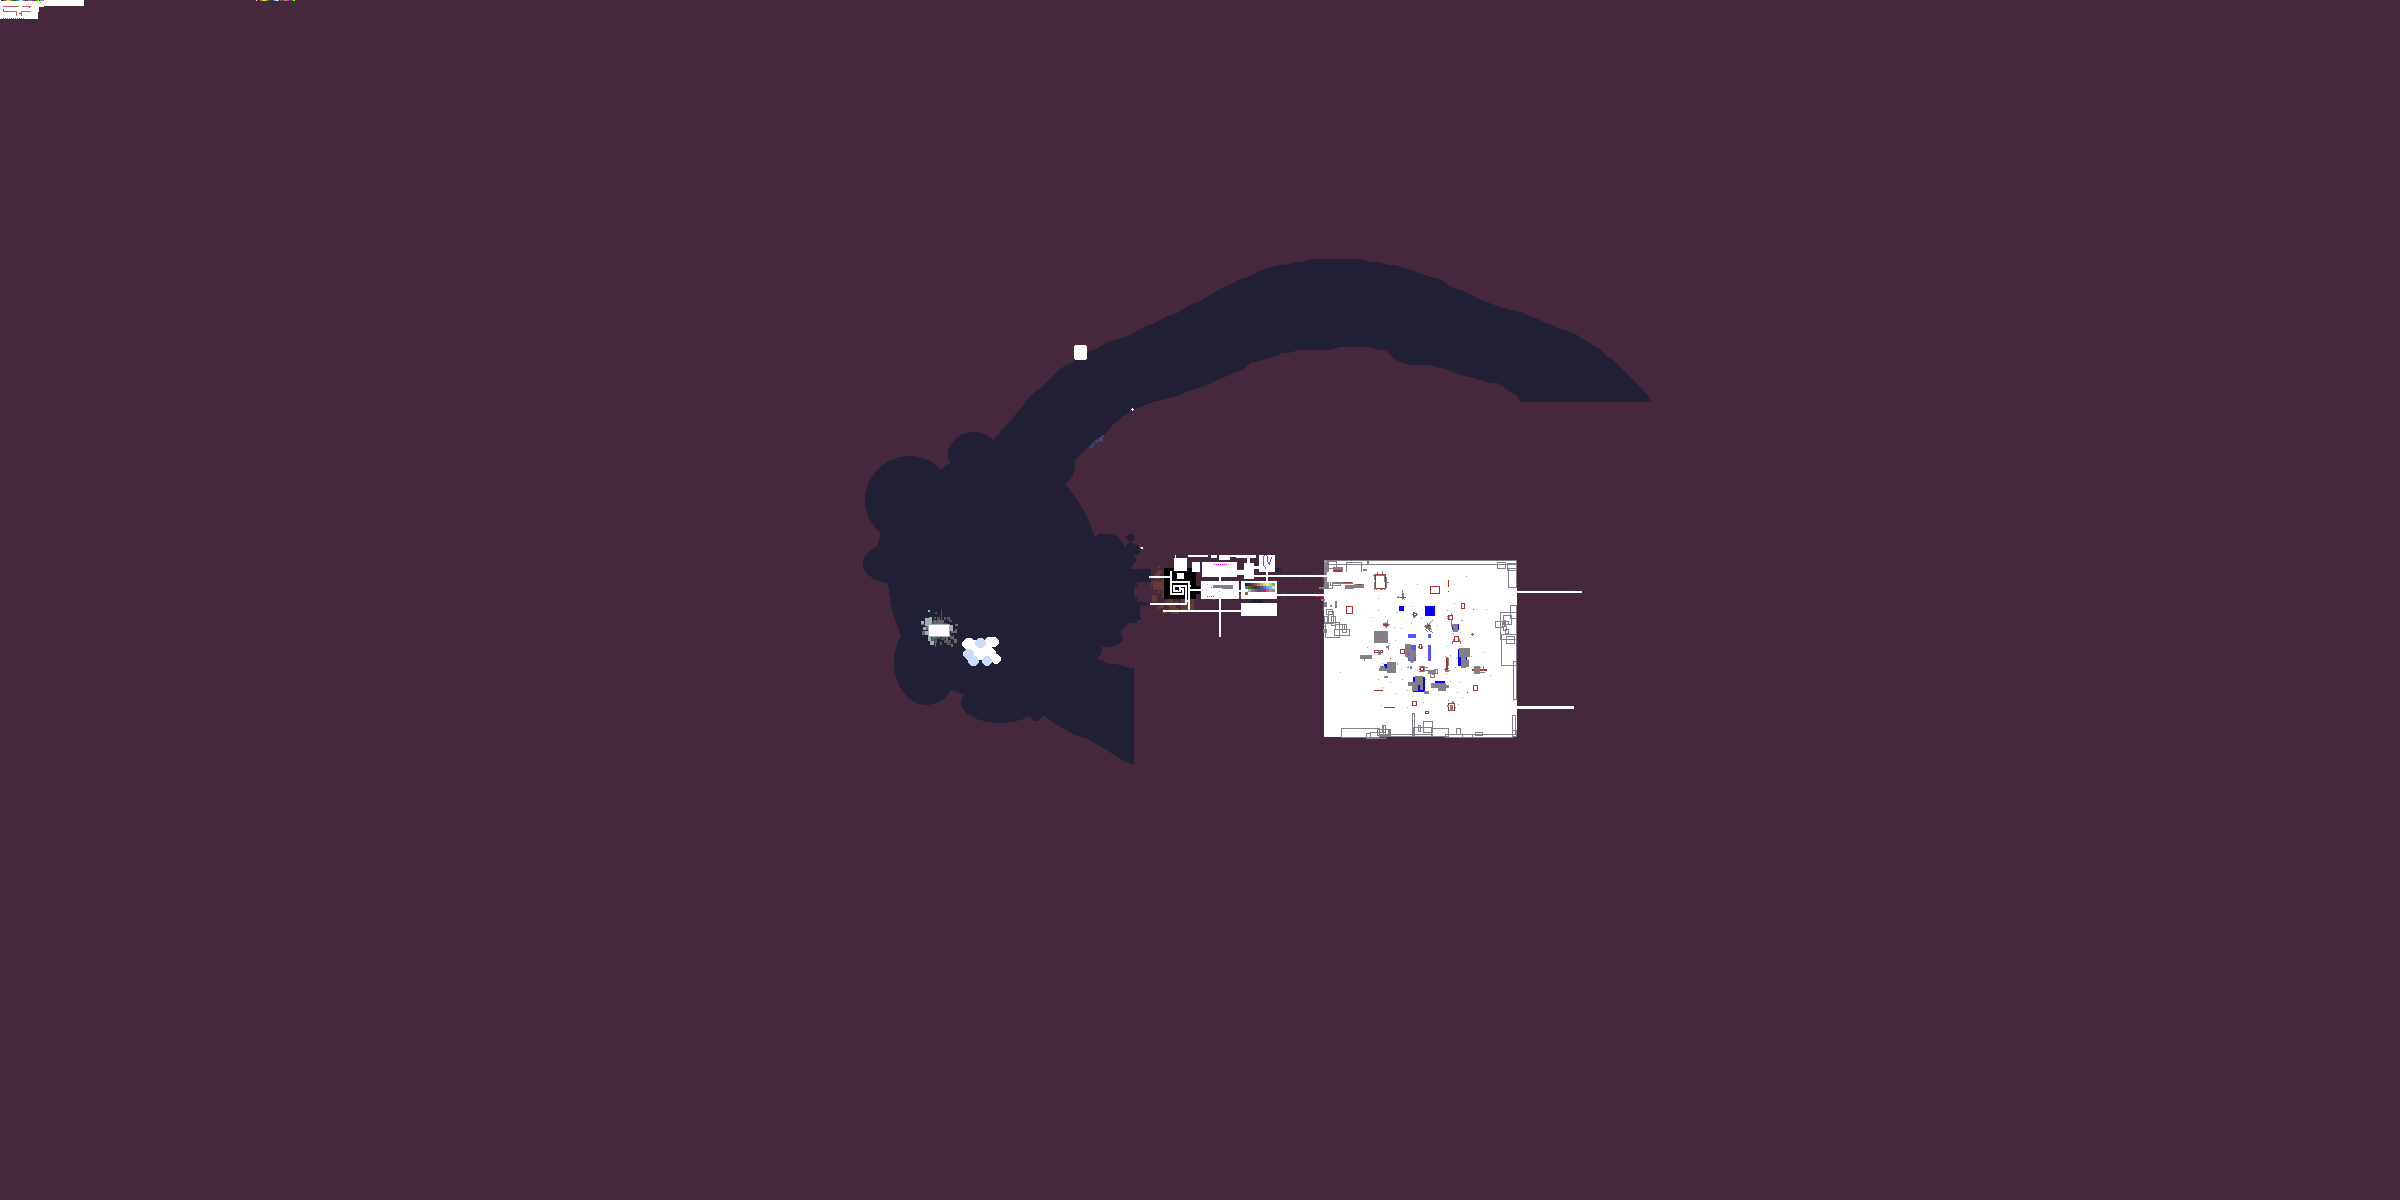
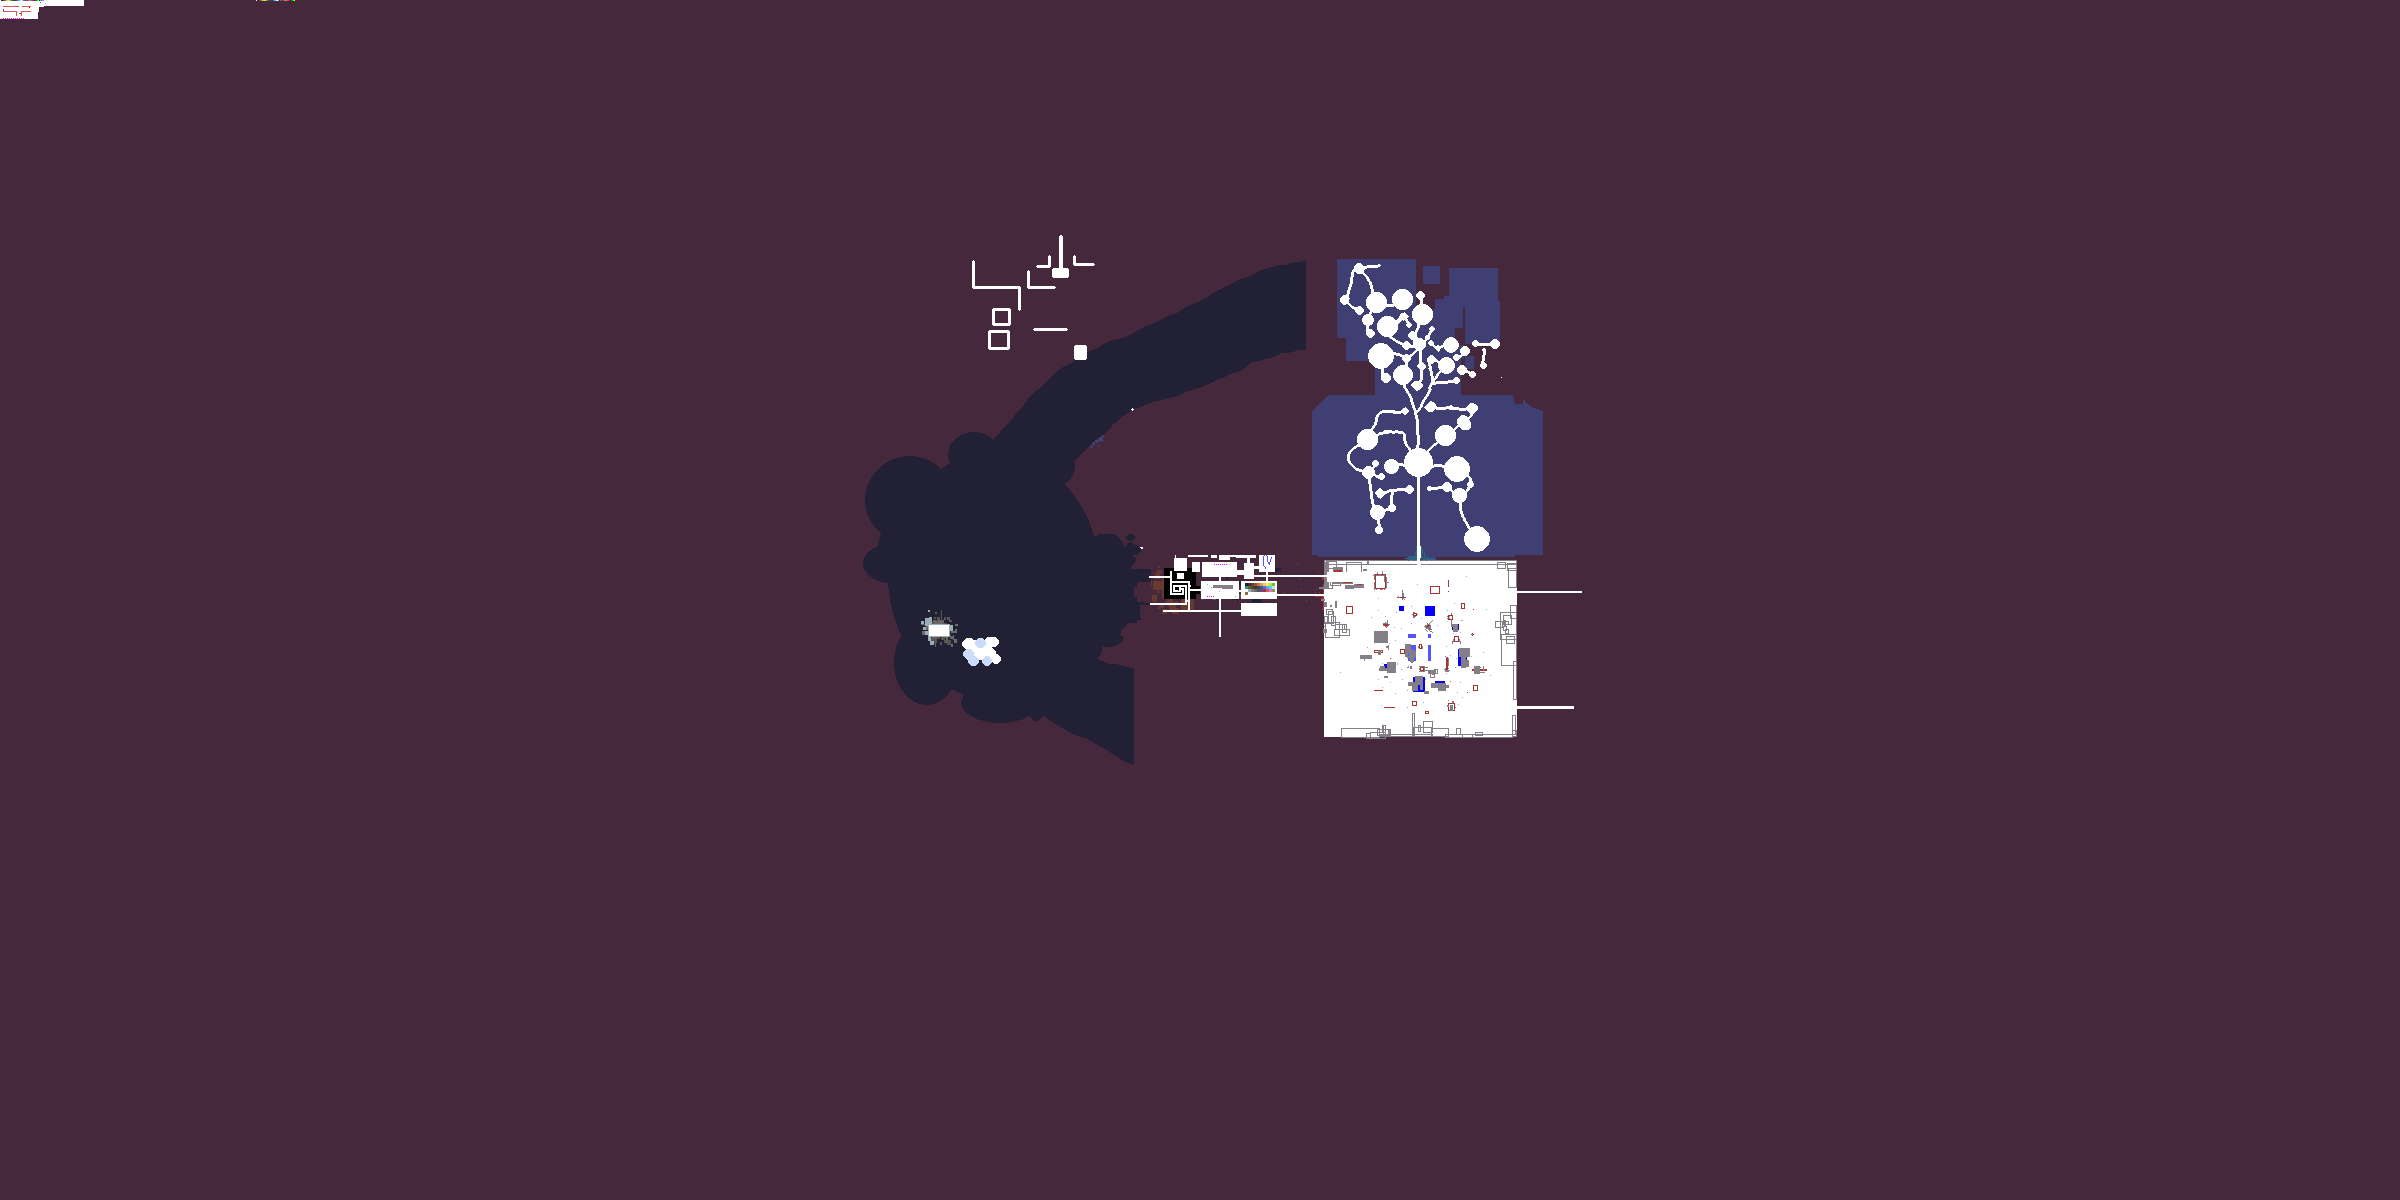
playing around with new map areas, more tile art

Changed region(s): [[0.5312, 0.2158, 0.6875, 0.4625], [0.4062, 0.2158, 0.4688, 0.2775]]

diff --git a/js/entities/player.js b/js/entities/player.js
@@ -256,9 +256,11 @@ var player = {
         let bulletXVelocity = this.shootTarget.x * 8,
             bulletYVelocity = this.shootTarget.y * 8;
         if(Math.abs(bulletXVelocity) > 0.1 || Math.abs(bulletYVelocity) > 0.1){
-            let bullet = new Bullet(this.x, this.y, bulletXVelocity, bulletYVelocity);
-            if(ticker%3==0)audio.playSound(loader.sounds.pewpew2, 0, 0.2)
-            world.bullets.push(bullet);
+            if(ticker%2==0){
+                audio.playSound(loader.sounds.pewpew2, 0, 0.2)
+                let bullet = new Bullet(this.x, this.y, bulletXVelocity, bulletYVelocity);
+                world.bullets.push(bullet);
+            }
         }
     },
 
@@ -271,9 +273,12 @@ var player = {
         let bulletDistance = Math.sqrt(bulletXDistance * bulletXDistance + bulletYDistance * bulletYDistance);
         let bulletXVelocity = Math.cos(bulletAngle) * 8 * map(bulletDistance, 0, view.width/2, 0.1, 1);
         let bulletYVelocity = Math.sin(bulletAngle) * 8 * map(bulletDistance, 0, view.height/2, 0.1, 1);
-        let bullet = new Bullet(this.x, this.y, bulletXVelocity, bulletYVelocity);
-        if(ticker%3==0)audio.playSound(loader.sounds.pewpew2, 0, 0.2)
-        world.bullets.push(bullet);
+        if(ticker%3==0){
+            audio.playSound(loader.sounds.pewpew2, 0, 0.2)
+            let bullet = new Bullet(this.x, this.y, bulletXVelocity, bulletYVelocity);
+
+            world.bullets.push(bullet);
+        }
     },
 
     collisionResponse: function(entity){
